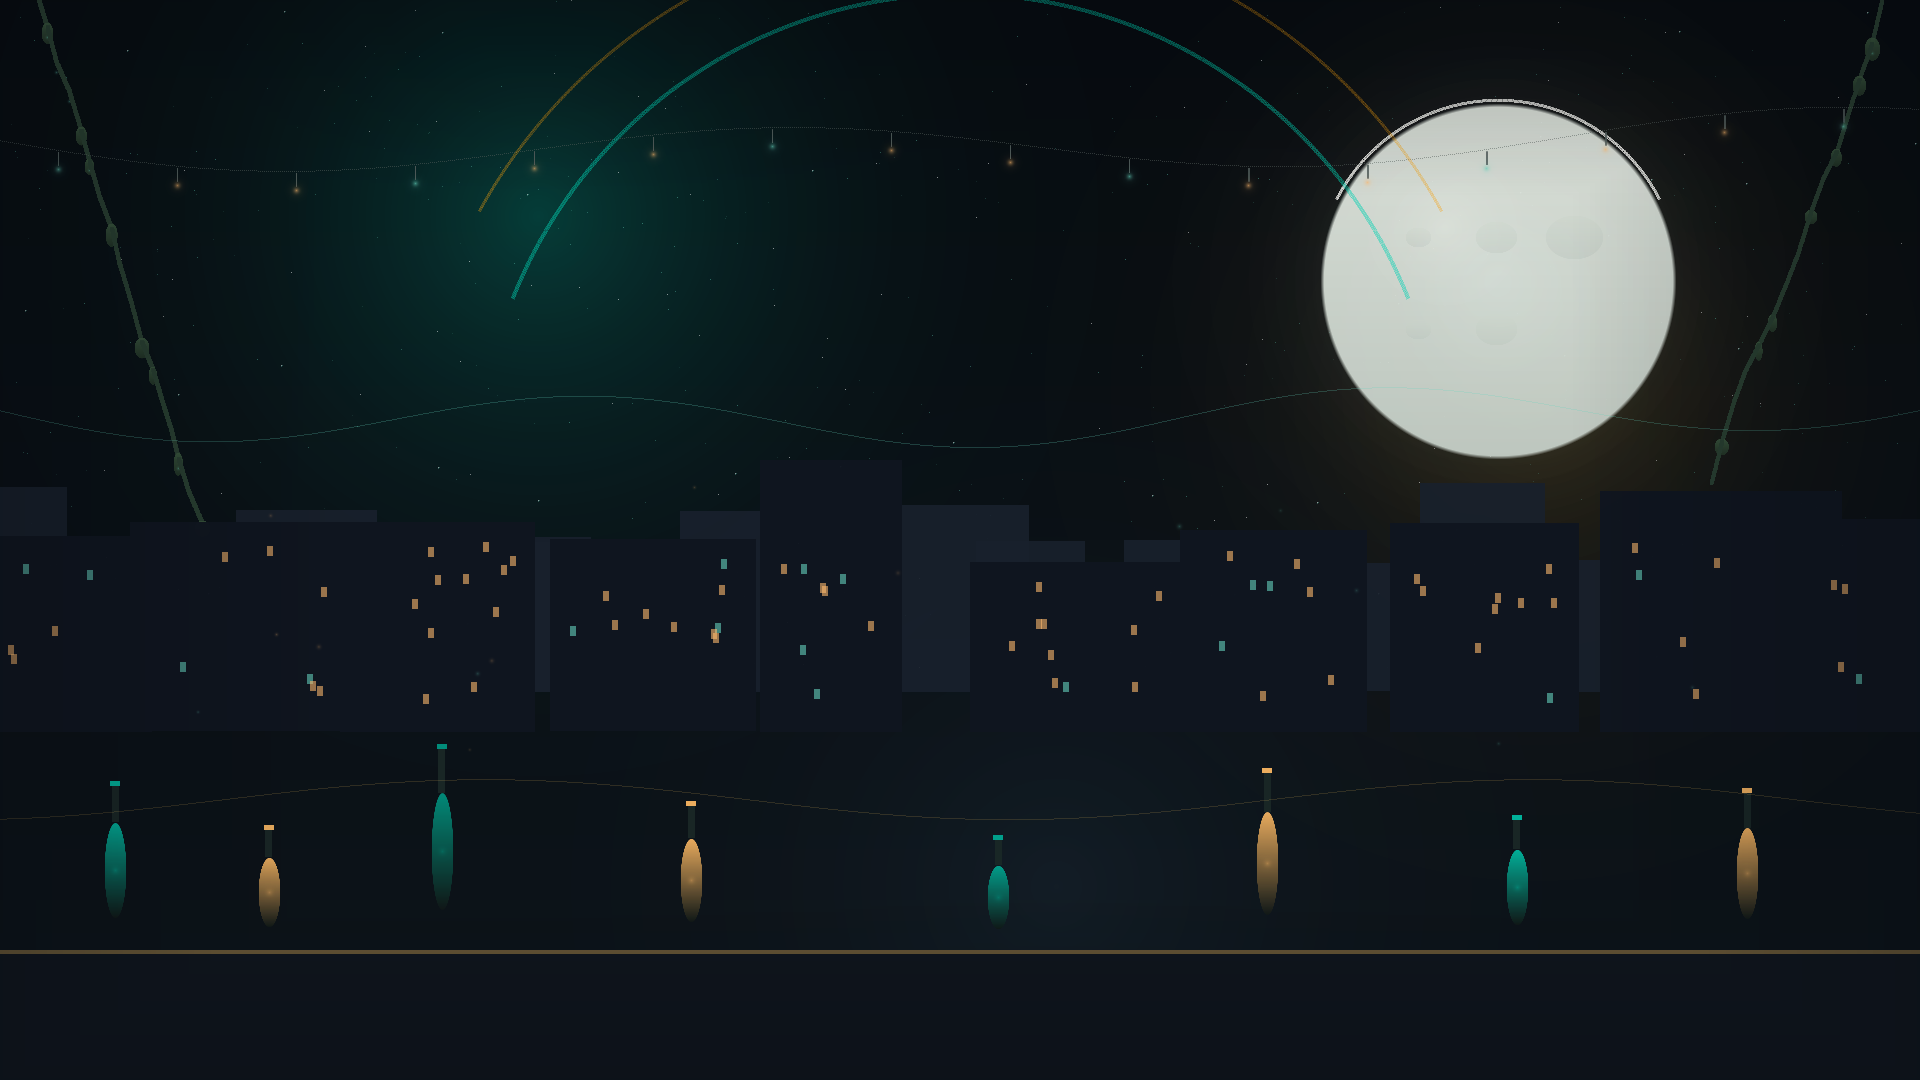
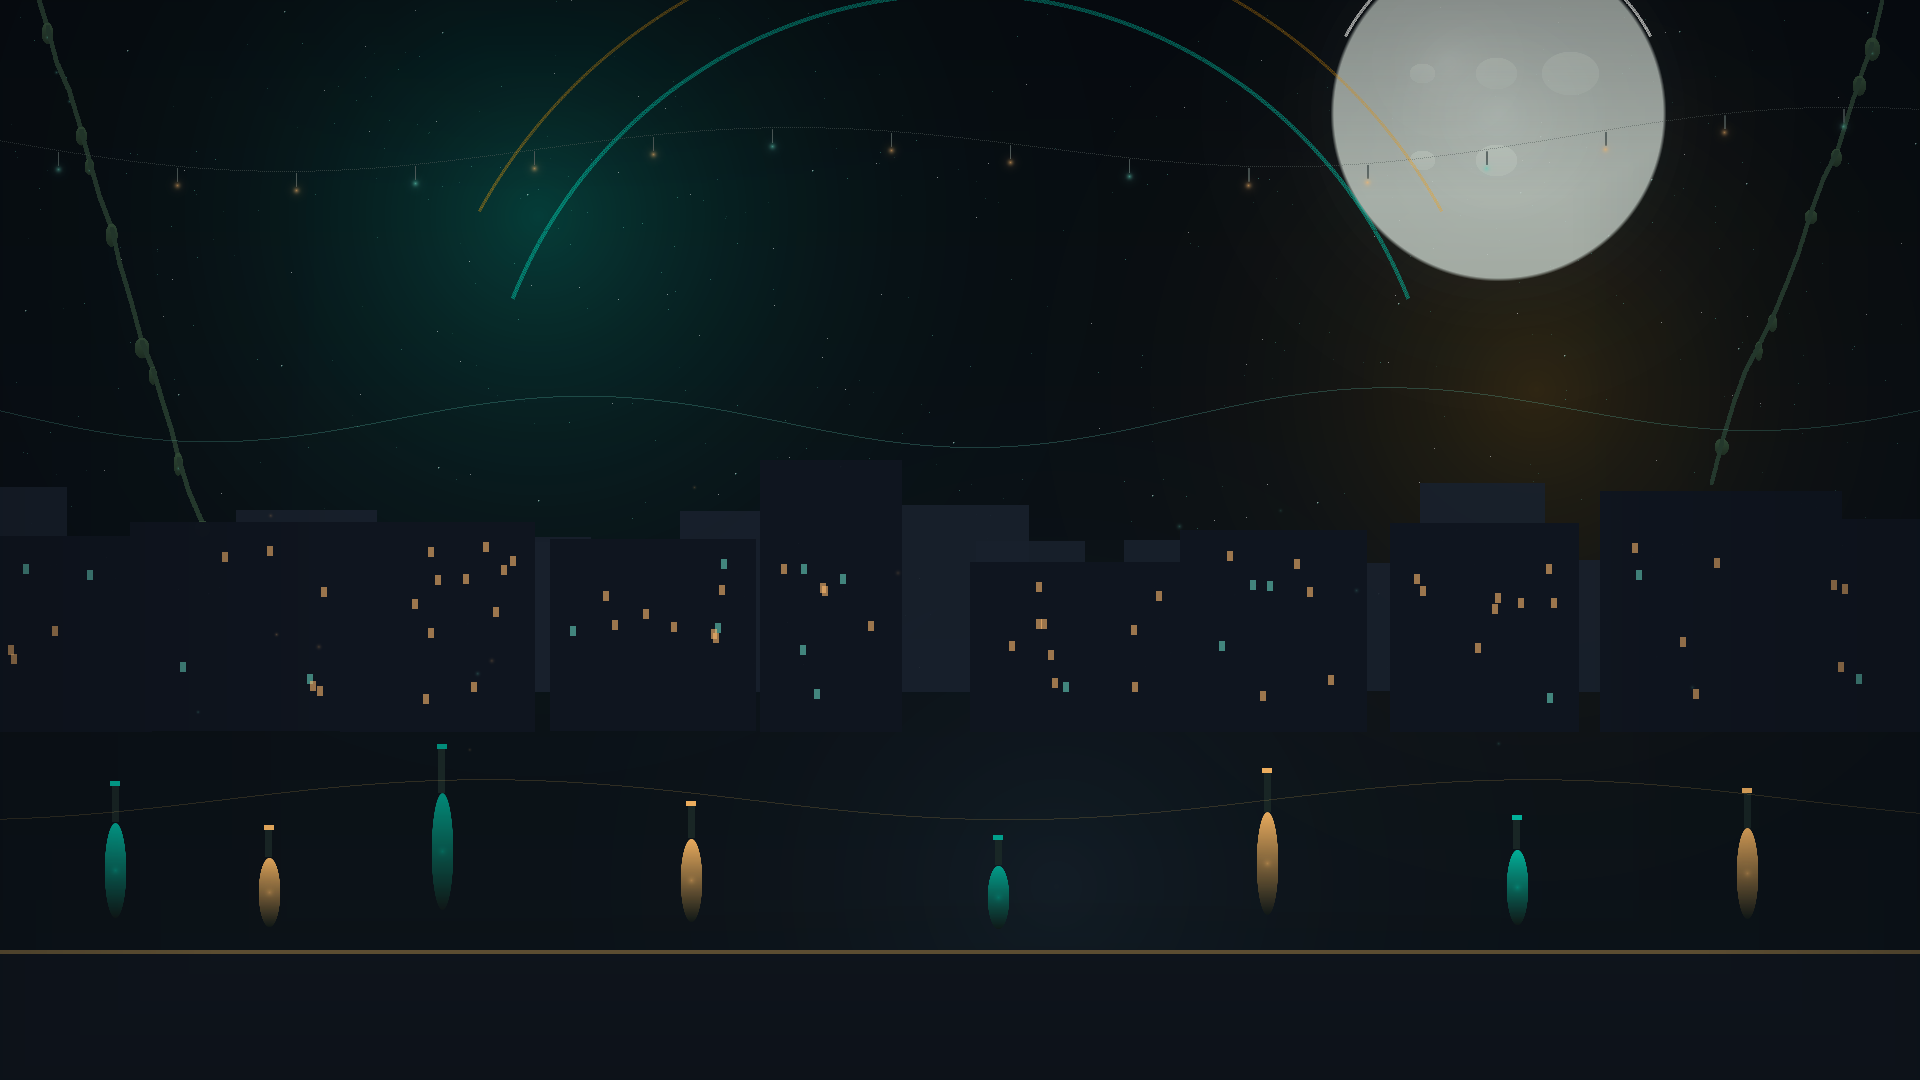
feat(echocraft): R26 P2 备忘消化——巨月脱敏 / 聊天场景母题辉光 / 湿街倒影 / 弧端微调

Changed region(s): [[0.6875, 0.0, 0.875, 0.4278]]

diff --git a/public/pixel-tavern/index.html b/public/pixel-tavern/index.html
@@ -31,9 +31,9 @@
     <link rel="icon" href="/pixel-tavern/brand/icon-32.png" type="image/png" sizes="32x32">
     <link rel="apple-touch-icon" href="/pixel-tavern/brand/icon-192.png">
     <link rel="preload" href="/pixel-tavern/portrait-painter.js" as="script">
-    <link rel="preload" href="/pixel-tavern/bg-echo.png" as="image">
+    <link rel="preload" href="/pixel-tavern/bg-echo.png?v=2138" as="image">
     <link rel="preload" href="/pixel-tavern/fonts/zpix-subset.woff2" as="font" type="font/woff2" crossorigin>
-    <link rel="stylesheet" href="/pixel-tavern/style.css?v=2136">
+    <link rel="stylesheet" href="/pixel-tavern/style.css?v=2138">
 </head>
 <body data-skin="clean">
 
@@ -440,13 +440,13 @@
     <footer class="site-foot">幻境回声 · EchoCraft — 沉浸式叙事沙龙 · 对话内容由 AI 生成，请注意辨别 · <a href="/pixel-tavern/">经典核心</a></footer>
     <div id="toast-wrap"></div>
 
-    <script src="/pixel-tavern/cards.js?v=2136"></script>
-    <script src="/pixel-tavern/data.js?v=2136"></script>
-    <script src="/pixel-tavern/portrait-painter.js?v=2136"></script>
-    <script src="/pixel-tavern/avatars.js?v=2136"></script>
-    <script src="/pixel-tavern/market.js?v=2136"></script>
-    <script src="/pixel-tavern/jukebox.js?v=2136"></script>
-    <script src="/pixel-tavern/chat.js?v=2136"></script>
-    <script src="/pixel-tavern/app.js?v=2136"></script>
+    <script src="/pixel-tavern/cards.js?v=2138"></script>
+    <script src="/pixel-tavern/data.js?v=2138"></script>
+    <script src="/pixel-tavern/portrait-painter.js?v=2138"></script>
+    <script src="/pixel-tavern/avatars.js?v=2138"></script>
+    <script src="/pixel-tavern/market.js?v=2138"></script>
+    <script src="/pixel-tavern/jukebox.js?v=2138"></script>
+    <script src="/pixel-tavern/chat.js?v=2138"></script>
+    <script src="/pixel-tavern/app.js?v=2138"></script>
 </body>
 </html>

diff --git a/public/pixel-tavern/portrait-painter.js b/public/pixel-tavern/portrait-painter.js
@@ -192,6 +192,14 @@
             g.glow(scx - S(64), base - S(60), S(70), [104, 88, 176], 0.2);
             g.glow(scx + S(88), base - S(46), S(64), [76, 102, 164], 0.2);
             g.ell(scx, base - S(8), S(204), S(26), 0, [98, 78, 122], [64, 58, 88], 0.5);
+            /* 湿街霓虹倒影：双塔霓虹色的竖向光渍 */
+            for (const side of [-1, 1]) {
+                const rx = scx + side * S(R(96, 126));
+                const rc = side < 0 ? hexRGB(TEAL) : hexRGB(AMBER);
+                g.capsule(rx, base - S(18), rx + S(side * 2), base + S(2), S(3.2), rc, 0.3);
+                g.capsule(rx + S(side * 10), base - S(12), rx + S(side * 12), base + S(3), S(2.2), rc, 0.22);
+            }
+            g.glow(scx, base - S(4), S(60), [124, 96, 140], 0.22);
             /* 远景：整幅天际线（连绵楼墙 + 密集窗格点阵） */
             for (let i = 0; i < 13; i++) {
                 const bx = scx + S(-168 + i * 26), bw = S(R(16, 24)), bh = S(R(44, 96));
@@ -341,7 +349,7 @@
             }
             sceneProps(g, S, headCX, headCY, base, p, rand);
             g.band(W / 2, headCY + S(30), S(148), Math.PI * 1.16, Math.PI * 1.84, Math.max(1.2, S(2.4)), tealC, 0.42);
-            g.band(W / 2, headCY + S(30), S(158), Math.PI * 1.22, Math.PI * 1.78, Math.max(1, S(1.6)), amberC, 0.22);
+            g.band(W / 2, headCY + S(30), S(158), Math.PI * 1.22, Math.PI * 1.74, Math.max(1, S(1.6)), amberC, 0.22);
         }
 
         /* ===== 轮廓底影（暗色描边，让人物从背景里立出来） ===== */

diff --git a/public/pixel-tavern/chat.js b/public/pixel-tavern/chat.js
@@ -158,6 +158,16 @@ function openChat(id, greetOverride) {
     const n = parseInt(hx.length === 3 ? hx.split('').map(x=>x+x).join('') : hx, 16);
     document.documentElement.style.setProperty('--chat-accent', acc);
     document.documentElement.style.setProperty('--chat-accent-soft', 'rgba(' + ((n>>16)&255) + ',' + ((n>>8)&255) + ',' + (n&255) + ', 0.16)');
+    /* 场景母题辉光（R26）：聊天背景按角色分类染上环境色 */
+    const SCENE_GLOWS = {
+        fantasy: 'rgba(96, 190, 160, 0.12)',
+        neon: 'rgba(150, 96, 190, 0.12)',
+        history: 'rgba(255, 168, 96, 0.12)',
+        mystery: 'rgba(110, 140, 205, 0.12)',
+        quiet: 'rgba(255, 186, 110, 0.12)',
+        odyssey: 'rgba(120, 118, 210, 0.12)',
+    };
+    document.documentElement.style.setProperty('--scene-glow', SCENE_GLOWS[c.category] || 'rgba(0, 209, 178, 0.10)');
     $('#chat-char-name').textContent = c.name;
     $('#chat-char-title').textContent = c.title ? c.title + ' · ' + catName(c.category) : catName(c.category);
     PTAvatar.draw($('#chat-avatar'), c);

diff --git a/public/pixel-tavern/style.css b/public/pixel-tavern/style.css
@@ -73,7 +73,7 @@ body {
     /* 深空回声场景（tools/make-portal-bg.mjs 生成）+ 压暗叠加层保证正文对比度 */
     background-image:
         linear-gradient(180deg, rgba(8, 12, 19, 0.24) 0%, rgba(8, 12, 19, 0.36) 100%),
-        url('bg-echo.png');
+        url('bg-echo.png?v=2137');
     background-size: cover, cover;
     background-position: center, center;
     background-attachment: fixed, fixed;
@@ -1066,6 +1066,18 @@ body:has(.view[data-view="chat"]:not(.hidden)) #tavern-ticker {
 /* ============================================================
  * 对话交互空间
  * ============================================================ */
+.view[data-view="chat"]::before {
+    content: "";
+    position: absolute;
+    inset: 0;
+    background: radial-gradient(62% 44% at 50% 0%, var(--scene-glow, transparent), transparent 74%);
+    pointer-events: none;
+    z-index: 0;
+}
+.view[data-view="chat"] > * {
+    position: relative;
+    z-index: 1;
+}
 .view[data-view="chat"] {
     display: flex;
     flex-direction: column;

diff --git a/PIXEL-TAVERN-BRAINSTORM.md b/PIXEL-TAVERN-BRAINSTORM.md
@@ -1495,3 +1495,10 @@ Build、设置（7 行全控件）、历史、更新通知（V1.1+V1.0 双日志
 - **复验 ITERATE（窄域收尾）→ R25f 收尾批次**：①底角补弧 z-order 根治——底部两段双缘光（r130 中心 shY+60）彻底删除，面侧 r90 两段先移人物身后出现耳麦残段副作用后一并删除，人物层之上零弧线系统；②眼下残线根因定性为侧发团（±52 ry21 与眼外角重叠 7s）→ 外移 ±62/ry20 完全退入后层发带；③odyssey 行星移 (scx+120,headCY-104)、小月亮移 (scx-124,headCY-84)，距弧带中心 216s/202s 全清；④历史宫灯放大提亮；⑤详情面板固定身份头（detail-body 滚动体）+ pre-line 分段 + 1.85 行距 + 青色滚动条；⑥卡片/Spotlight 副题结构化（cc-title 截断保中、cc-cat 分类名保尾青色标记）；⑦Spotlight/chips 右缘渐隐。
 - **终验 DELIVER**（art-critic 第三轮，独立取证 20 处）：P0×3 全关闭（眼神划痕 7/7 封面 3x 零残留、六景网格可辨 2/6→6/6、弧线纪律零穿框零压身）；十图全 PASS。唯一 hotfix 建议项『白澈 lore 悬空碎片哦。』经 scrollTop=0 复核为滚动态截图把段尾『擦拭灯罩。』裁成『罩。』的误读，数据无缺陷；sticky 身份头由同图证实。
 - **终验提交**：已推送（a32838bcf + 本轮收尾）。
+## 决策轮 R26（2026.11.17，P2 备忘消化）
+
+- **R26-1 巨月脱敏**：moonY H*0.26→H*0.105（上移进顶带，避开 chips/卡顶）+ 整体压暗（本体 240→215、辉光 58/78→40/56、月晕减半）；bg-echo.png 加 ?v 缓存参数（style.css + preload 同步）。
+- **R26-2 聊天背景接场景母题**：openChat 按 c.category 设 --scene-glow（六分类环境色），聊天视图顶部 radial 辉光层（::before，z0 不挡交互）。
+- **R26-3 封面微调**：霓虹湿街加双塔霓虹色竖向倒影光渍；琥珀弧终点 1.78π→1.74π 避开右灯笼灯帽。
+- **验证**：smoke 130/130；本地双端截图核验（月亮退至顶带、分类名保尾青标、聊天顶部环境辉光可见）。
+- **提交**：随本轮推送。
